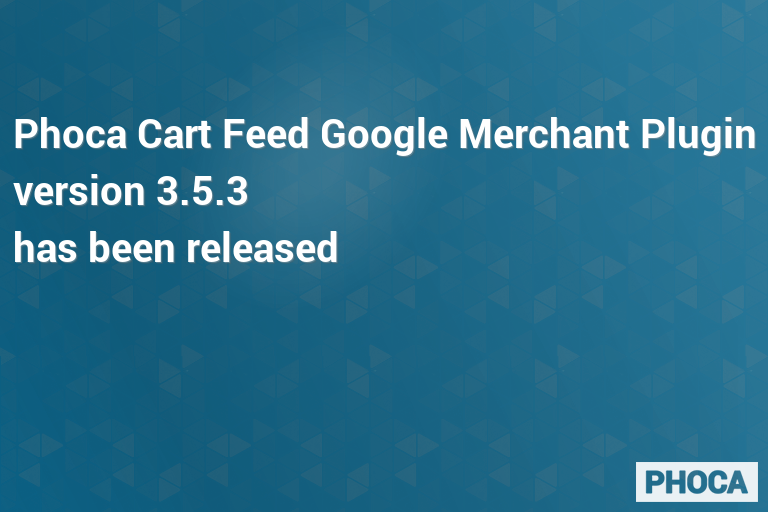
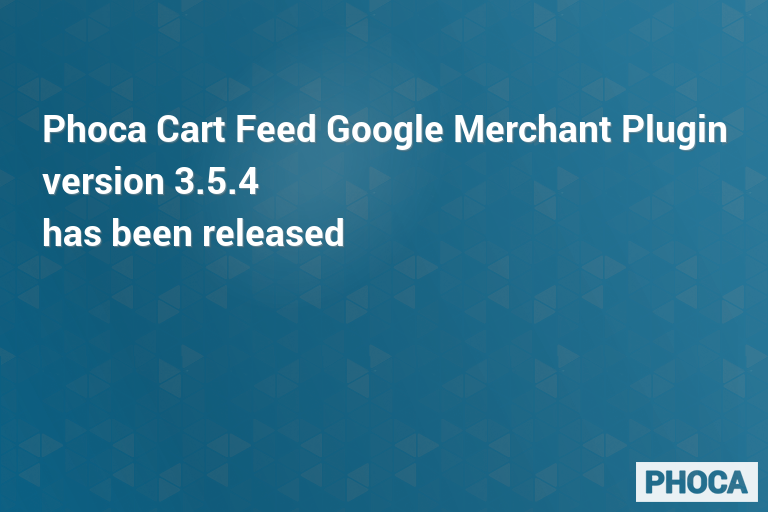
3.5.4
3.5.4

Changed region(s): [[0.0, 0.2188, 1.0, 0.5312]]

diff --git a/README.MD b/README.MD
@@ -56,7 +56,7 @@ Phoca Cart Feed - Google Merchant plugin - XML feed plugin for Phoca Cart compon
 
 ## Version
 
-3.5.3
+3.5.4
 
 
 
